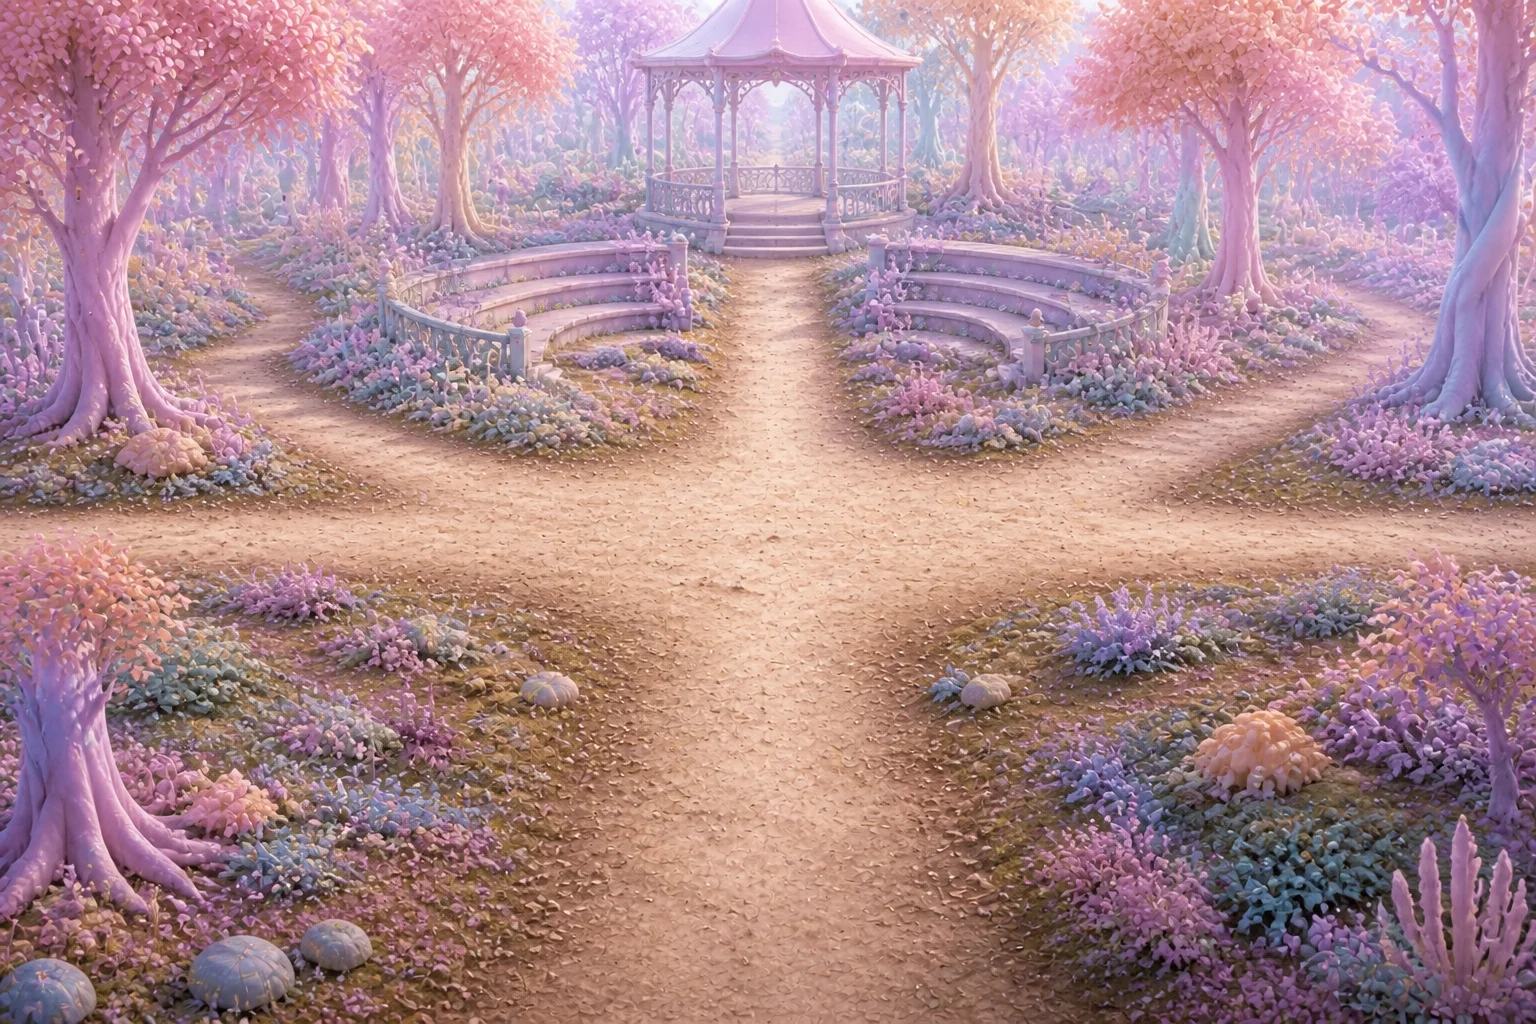
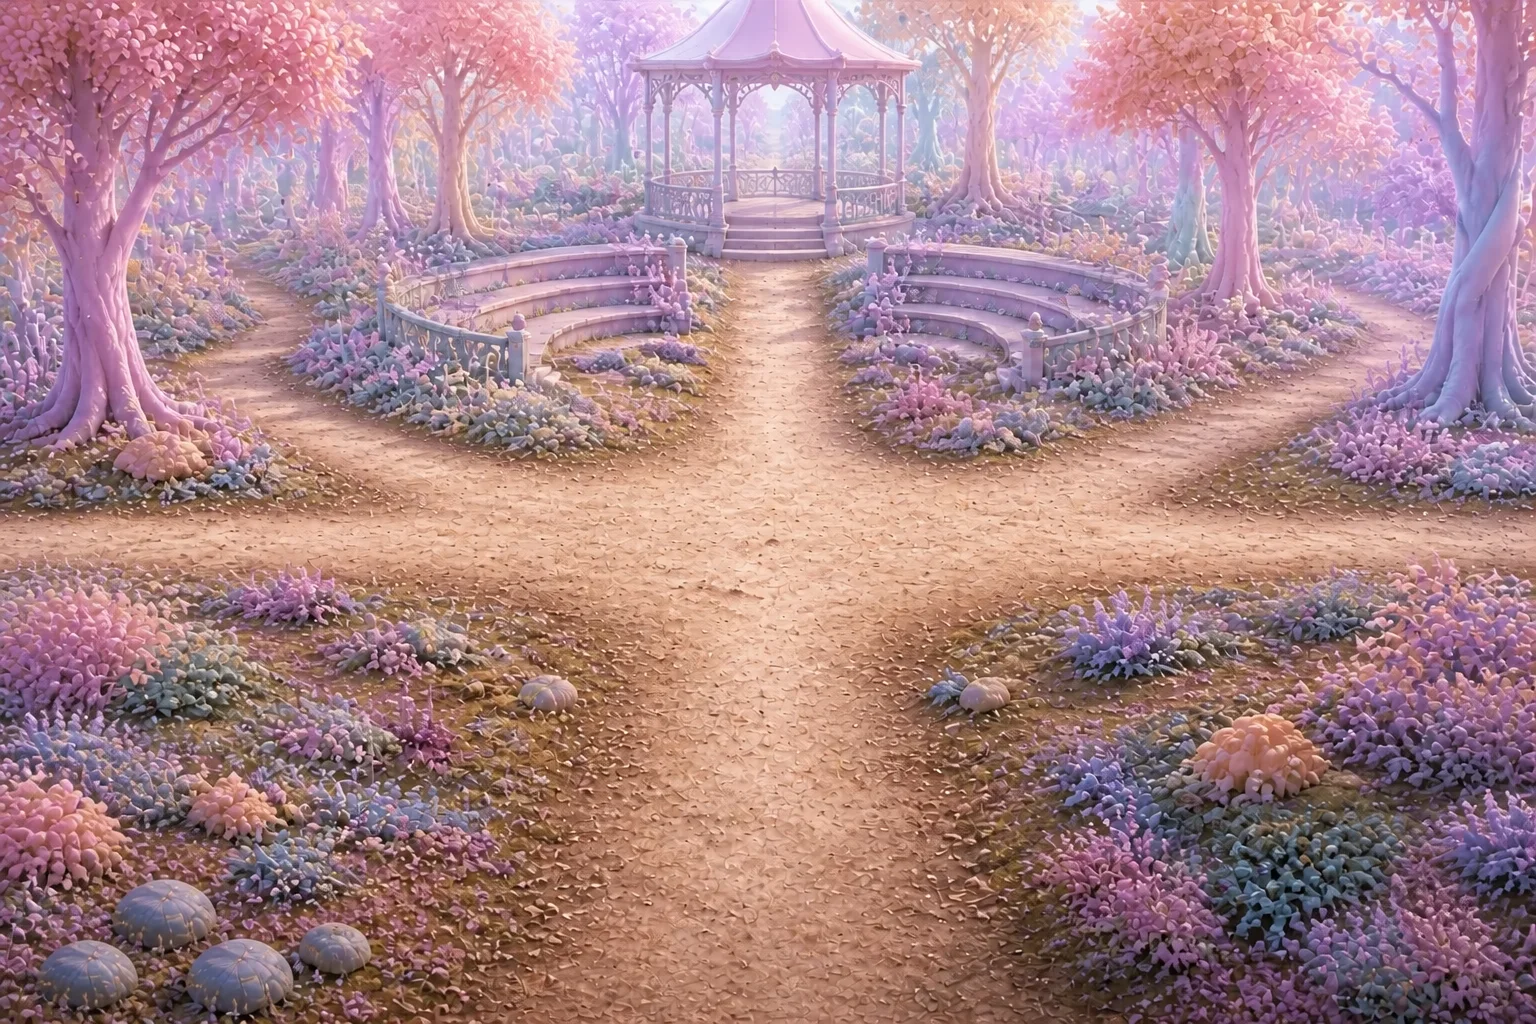
Grimmerglen pass

diff --git a/js/grimmerglen.js b/js/grimmerglen.js
@@ -53,7 +53,7 @@
   const MARIETTA_RETURN_PORTAL = { roomId: 'room_01', x: 768, y: 820, r: 44, triggerR: 36 };
   const POPUP_COOLDOWN_MS = 900;
   const OBJECT_HIT_R = 58;
-  const OBJECT_DRAW_SIZE = 94;
+  const OBJECT_DRAW_SIZE = 58;
   const OBJECT_PROXIMITY_R = 58;
   const OBJECT_LABELS = {
     banner: 'Banner',
@@ -115,6 +115,7 @@
   const objectImageCache = new Map();
   const roomGlowCache = new Map();
   const sparkles = [];
+  const edgeLeaves = [];
 
   const boohaImg = new Image();
   boohaImg.decoding = 'async';
@@ -268,7 +269,7 @@
     ];
     for (const spot of spots) {
       const gradient = ctx.createRadialGradient(spot.x, spot.y, 0, spot.x, spot.y, spot.r);
-      gradient.addColorStop(0, `rgba(${rgb.r},${rgb.g},${rgb.b},.55)`);
+      gradient.addColorStop(0, `rgba(${rgb.r},${rgb.g},${rgb.b},.34)`);
       gradient.addColorStop(1, `rgba(${rgb.r},${rgb.g},${rgb.b},0)`);
       ctx.fillStyle = gradient;
       ctx.fillRect(0, 0, WORLD_W, WORLD_H);
@@ -283,6 +284,7 @@
 
   function reseedSparkles(roomId) {
     sparkles.length = 0;
+    edgeLeaves.length = 0;
     const seed = Number(roomId.slice(-2)) || 1;
     const count = 10;
     for (let i = 0; i < count; i++) {
@@ -292,6 +294,19 @@
         phase: (seed + i) * 1.7,
         speed: 0.4 + (i % 3) * 0.15,
         size: 1.6 + (i % 4) * 0.6
+      });
+    }
+    for (let i = 0; i < 16; i++) {
+      const side = i % 4;
+      const lane = (i + 1) / 17;
+      const inset = 28 + ((seed * 19 + i * 23) % 105);
+      edgeLeaves.push({
+        side,
+        x: side < 2 ? lane * WORLD_W : (side === 2 ? inset : WORLD_W - inset),
+        y: side < 2 ? (side === 0 ? inset : WORLD_H - inset) : lane * WORLD_H,
+        phase: seed * .7 + i * 1.83,
+        size: 4 + (i % 3) * 1.1,
+        speed: .34 + (i % 4) * .07
       });
     }
   }
@@ -316,15 +331,66 @@
     }
   }
 
+  function drawEdgeLeaves(now) {
+    if (REDUCED_MOTION) return;
+    const rgb = getRoomGlowRgb(state.roomId);
+    const seconds = now / 1000;
+    for (const leaf of edgeLeaves) {
+      const sway = Math.sin(seconds * leaf.speed + leaf.phase) * 22;
+      const bob = Math.cos(seconds * leaf.speed * 1.35 + leaf.phase) * 16;
+      let x = leaf.x;
+      let y = leaf.y;
+      if (leaf.side < 2) { x += sway; y += bob; }
+      else { x += bob; y += sway; }
+      const rotation = seconds * (leaf.side % 2 ? -.18 : .18) + leaf.phase;
+      const alpha = .28 + .12 * Math.sin(seconds * 1.4 + leaf.phase);
+      atmosphereCtx.save();
+      atmosphereCtx.translate(x, y);
+      atmosphereCtx.rotate(rotation);
+      atmosphereCtx.globalAlpha = alpha;
+      atmosphereCtx.fillStyle = `rgb(${rgb.r},${rgb.g},${rgb.b})`;
+      atmosphereCtx.shadowColor = `rgba(${rgb.r},${rgb.g},${rgb.b},.75)`;
+      atmosphereCtx.shadowBlur = 7;
+      atmosphereCtx.beginPath();
+      atmosphereCtx.moveTo(0, -leaf.size);
+      atmosphereCtx.quadraticCurveTo(leaf.size * 1.15, -leaf.size * .15, 0, leaf.size);
+      atmosphereCtx.quadraticCurveTo(-leaf.size * 1.15, -leaf.size * .15, 0, -leaf.size);
+      atmosphereCtx.fill();
+      atmosphereCtx.shadowBlur = 0;
+      atmosphereCtx.strokeStyle = 'rgba(255,255,255,.3)';
+      atmosphereCtx.lineWidth = .8;
+      atmosphereCtx.beginPath();
+      atmosphereCtx.moveTo(0, -leaf.size * .72);
+      atmosphereCtx.lineTo(0, leaf.size * .68);
+      atmosphereCtx.stroke();
+      atmosphereCtx.restore();
+    }
+  }
+
+  function drawPastelVignette() {
+    const rgb = getRoomGlowRgb(state.roomId);
+    const radius = Math.max(WORLD_W, WORLD_H) * .72;
+    const gradient = atmosphereCtx.createRadialGradient(CENTER_X, CENTER_Y, radius * .18, CENTER_X, CENTER_Y, radius);
+    gradient.addColorStop(0, 'rgba(255,255,255,0)');
+    gradient.addColorStop(.62, `rgba(${rgb.r},${rgb.g},${rgb.b},.025)`);
+    gradient.addColorStop(1, `rgba(${rgb.r},${rgb.g},${rgb.b},.3)`);
+    atmosphereCtx.save();
+    atmosphereCtx.fillStyle = gradient;
+    atmosphereCtx.fillRect(0, 0, WORLD_W, WORLD_H);
+    atmosphereCtx.restore();
+  }
+
   function drawAtmosphere(now) {
     atmosphereCtx.clearRect(0, 0, WORLD_W, WORLD_H);
     const seed = Number(state.roomId.slice(-2)) || 1;
     const pulse = REDUCED_MOTION ? .85 : .78 + .22 * Math.sin(now / 2100 + seed);
     atmosphereCtx.save();
-    atmosphereCtx.globalAlpha = pulse;
+    atmosphereCtx.globalAlpha = pulse * .72;
     atmosphereCtx.globalCompositeOperation = 'screen';
     atmosphereCtx.drawImage(getRoomGlow(state.roomId), 0, 0);
     atmosphereCtx.restore();
+    drawPastelVignette();
+    drawEdgeLeaves(now);
     drawSparkles(now);
   }
 

diff --git a/js/grimmerglen-data.js b/js/grimmerglen-data.js
@@ -263,9 +263,9 @@
     // object types. Coordinates stay in the current generous cross-corridor
     // walkable shape until the later per-room calibration pass.
     objects: {
-      banner:        [ { room: 'room_01', x: 250,  y: 580 }, { room: 'room_02', x: 260,  y: 420 }, { room: 'room_03', x: 1260, y: 650 } ],
-      ticket:        [ { room: 'room_01', x: 1240, y: 650 }, { room: 'room_05', x: 250,  y: 650 }, { room: 'room_06', x: 1240, y: 400 } ],
-      pillow:        [ { room: 'room_01', x: 600,  y: 690 }, { room: 'room_04', x: 250,  y: 650 }, { room: 'room_06', x: 450,  y: 650 } ],
+      banner:        [ { room: 'room_10', x: 260,  y: 420 }, { room: 'room_02', x: 260,  y: 420 }, { room: 'room_03', x: 1260, y: 650 } ],
+      ticket:        [ { room: 'room_11', x: 1260, y: 650 }, { room: 'room_05', x: 250,  y: 650 }, { room: 'room_06', x: 1240, y: 400 } ],
+      pillow:        [ { room: 'room_12', x: 600,  y: 690 }, { room: 'room_04', x: 250,  y: 650 }, { room: 'room_06', x: 450,  y: 650 } ],
       backpack:      [ { room: 'room_02', x: 760,  y: 580 }, { room: 'room_05', x: 760,  y: 390 }, { room: 'room_07', x: 250,  y: 420 } ],
       book:          [ { room: 'room_02', x: 1240, y: 660 }, { room: 'room_03', x: 420,  y: 600 }, { room: 'room_07', x: 1250, y: 680 } ],
       teddyBear:     [ { room: 'room_03', x: 900,  y: 700 }, { room: 'room_06', x: 900,  y: 600 }, { room: 'room_08', x: 250,  y: 650 } ],

diff --git a/sw.js b/sw.js
@@ -104,7 +104,9 @@ const CURRENT_CACHES = {
   // room navigation/Marietta placement.
   // Grimmerglen entry-audio pass: the recorded Booha transformation cue is
   // normalized to compact 44.1 kHz mono 112 kbps MP3.
-  assets: 'booha-assets-2026-436',
+  // Grimmerglen visual polish: room-01 is object-free, room-12 is refreshed,
+  // collectibles are smaller, and room-colored vignette leaves are live.
+  assets: 'booha-assets-2026-437',
   decks:  'booha-decks-2026-310',
 };
 

diff --git a/assets/img/grimmerglen/grimmerglen.css b/assets/img/grimmerglen/grimmerglen.css
@@ -2,7 +2,7 @@
    Apply .grimmerglen-pastel-pop to the room layer or sprite wrapper. */
 
 :root {
-  --grimmerglen-pastel-pop: saturate(1.22) brightness(1.06) contrast(1.04);
+  --grimmerglen-pastel-pop: saturate(1.1) contrast(1.06);
 }
 
 .grimmerglen-pastel-pop {
